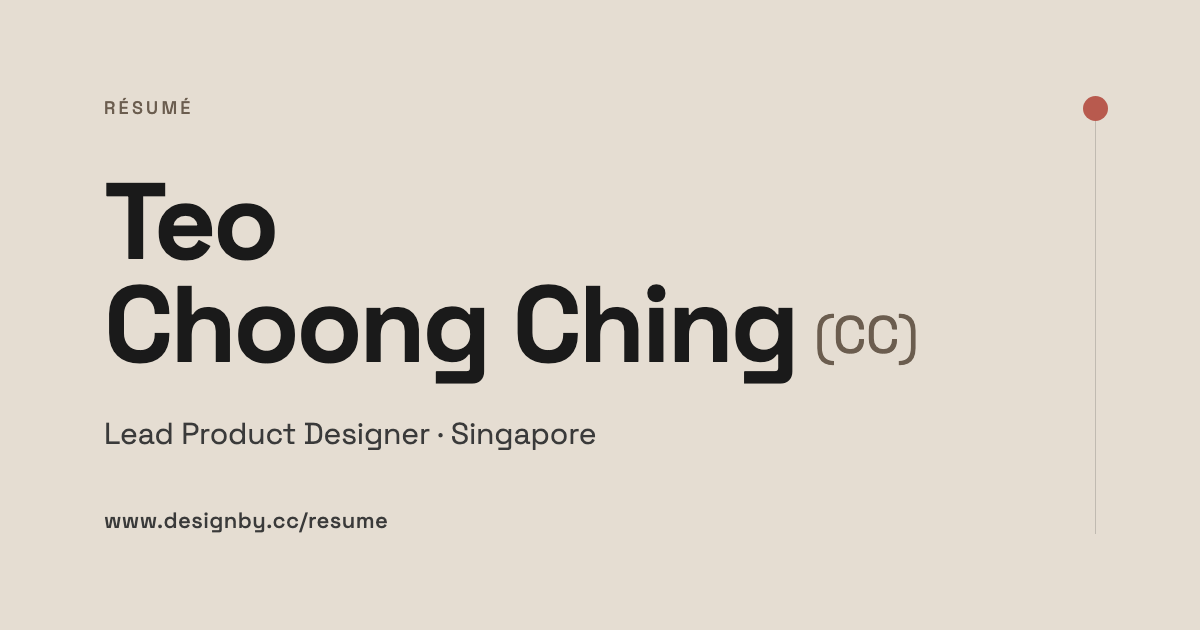
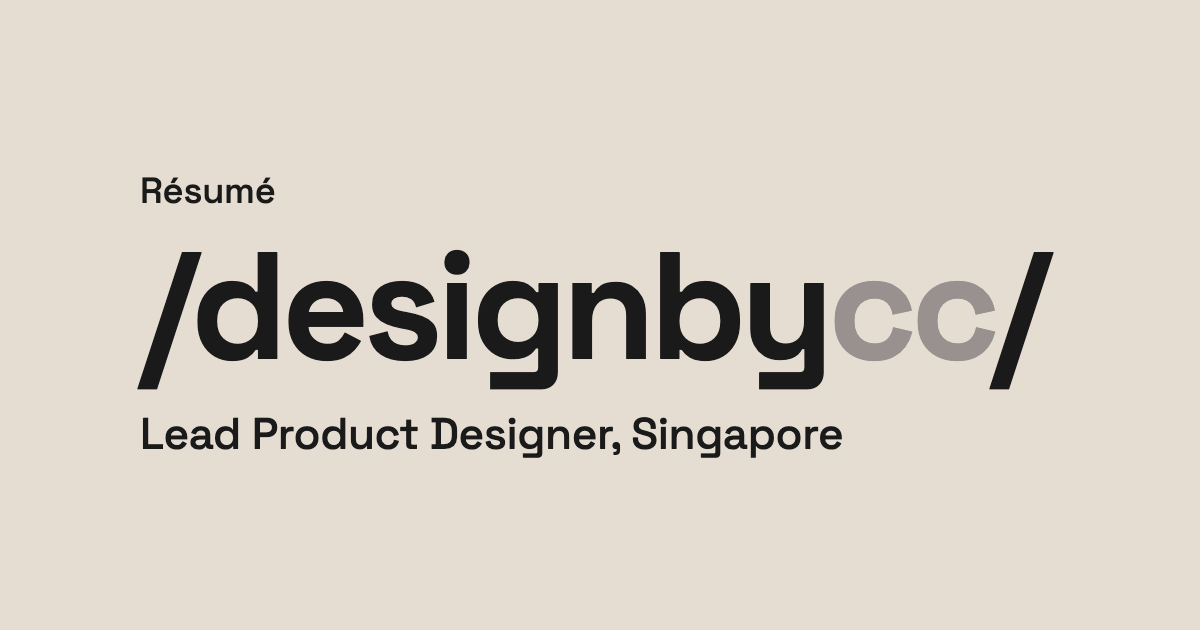
Redesign OG images to match /designbycc/ wordmark treatment (#28)
Replaces the previous large-name layout with the wordmark style from
the live site: a dominant two-tone slug "/designby" (black) "cc"
(muted grey) "/" (black), with a small label above and a single-line
subtitle below. Three text elements, no decorative rules or dots,
typography does all the work.

- public/og-home.png — Label "Product Designer" / subtitle "Portfolio
  of Choong Ching, Teo"
- public/og-resume.png — Label "Résumé" / subtitle "Lead Product
  Designer, Singapore"

Both updates the og:image:alt to match the new visible content.

diff --git a/index.html b/index.html
@@ -23,7 +23,7 @@
     <meta property="og:image" content="https://www.designby.cc/og-home.png" />
     <meta property="og:image:width" content="1200" />
     <meta property="og:image:height" content="630" />
-    <meta property="og:image:alt" content="Design by CC — Teo Choong Ching, Lead Product Designer (B2B AI, Singapore)" />
+    <meta property="og:image:alt" content="/designbycc/ — Portfolio of Choong Ching Teo, Product Designer" />
 
     <!-- Twitter Card -->
     <meta name="twitter:card" content="summary_large_image" />

diff --git a/public/resume.html b/public/resume.html
@@ -25,7 +25,7 @@
 <meta property="og:image" content="https://www.designby.cc/og-resume.png">
 <meta property="og:image:width" content="1200">
 <meta property="og:image:height" content="630">
-<meta property="og:image:alt" content="Teo Choong Ching (CC) — Lead Product Designer, Singapore">
+<meta property="og:image:alt" content="/designbycc/ — Résumé of Choong Ching Teo, Lead Product Designer, Singapore">
 
 <!-- Twitter Card -->
 <meta name="twitter:card" content="summary_large_image">
